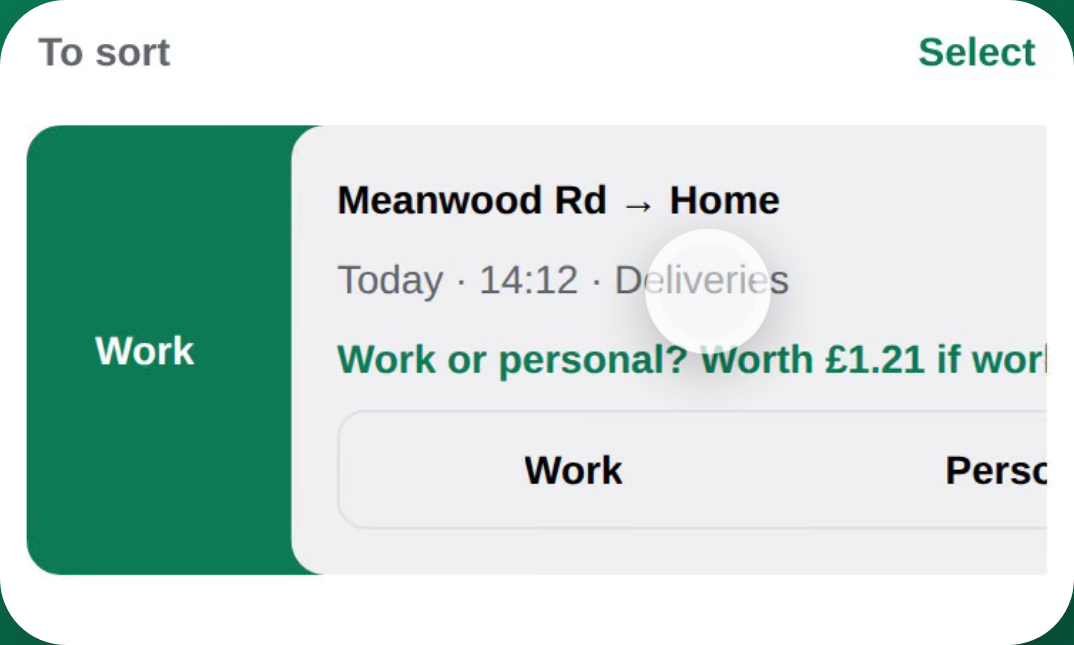
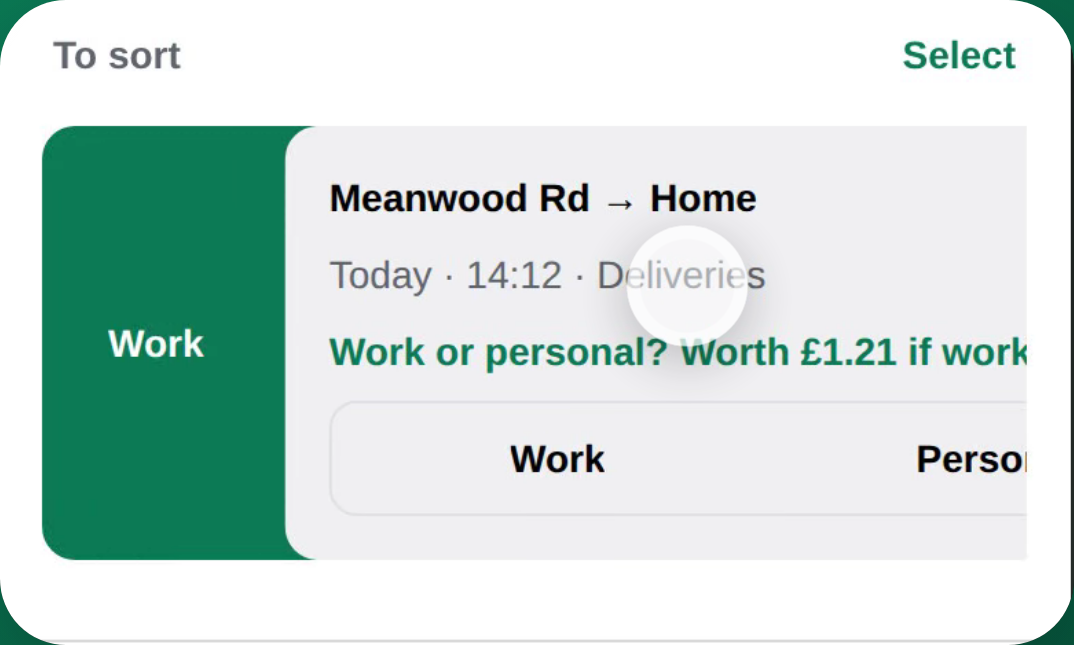
Website preview: QA fixes: panel 1 and Perks per country, zoom fits the scene, legacy zones, chip race, privacy wording
- Panel 1: the Home screenshot's 3,190.22 work miles (5,134.16 km) valued at each country's rate with the
  calculator's sum: £1,754.62, $2,424.57 (IRS), $3,739.89 (CRA), $4,550.00 (ATO, capped). Tested.
- Perks: 10¢ off a gallon of gas for the US; 10¢ / 10c off a litre for Canada / Australia.
- Zoom on phones: the app's screen fills the scene's width (about 90-92% of the viewport), measured from the
  untransformed rect, so the drive card shows whole at 320-390.
- /api/scene and intro-gate.js: legacy zone aliases (America/Indianapolis, Louisville, Fort_Wayne, Knox_IN,
  US/*, Navajo, Canada/*, Coral_Harbour, Australia/*, GB, GB-Eire); lists kept in step by a test.
- Scenery chips: a late /api/scene answer never overrides a chip the visitor picked.
- privacy.html: no 'track' in the website section.

Claude-Session: https://claude.ai/code/session_01HV35bfD7NzTSNvA32BVxeb

diff --git a/website/assets/site.js b/website/assets/site.js
@@ -667,9 +667,13 @@
     function measure() {
       var view = root.querySelector('.scene-view');
       var scr = root.querySelector('.screen');
-      // layout sizes (transforms don't change them), so measuring mid-zoom is fine
+      // the screen's box in the scene, untransformed (the zoom is lifted for the measurement, then put back)
+      var was = rig.style.transform;
+      rig.style.transform = '';
+      var vr = view.getBoundingClientRect(), sr = scr.getBoundingClientRect();
+      rig.style.transform = was;
       geo = { W: view.clientWidth, H: view.clientHeight, VW: document.documentElement.clientWidth,
-        sx: phoneEl.offsetLeft + scr.offsetLeft, sy: phoneEl.offsetTop + scr.offsetTop, sw: scr.offsetWidth, sh: scr.offsetHeight };
+        sx: sr.left - vr.left - view.clientLeft, sy: sr.top - vr.top - view.clientTop, sw: sr.width, sh: sr.height };
     }
     window.addEventListener('resize', function () { geo = null; });
     function zoomAt(t) {
@@ -711,10 +715,10 @@
       }
       if (!geo) measure();
       var g = geo;
-      // Phones: the app's screen fills about 95% of the viewport's width (the bezel and mount crop off the
-      // scene's edges), so its text reads at about real iPhone size. Wider: the screen comes up to about
+      // Phones: the app's screen fills the scene's width (about 90-92% of the viewport; the bezel and mount crop off
+      // the scene's edges), so its text reads at about real iPhone size. Wider: the screen comes up to about
       // real size (390 CSS px wide, or 90% of the scene), its text readable too.
-      var S = g.VW <= 600 ? 0.95 * g.VW / g.sw : Math.min(0.9 * g.W, 390) / g.sw;
+      var S = g.VW <= 600 ? Math.min(0.95 * g.VW, g.W) / g.sw : Math.min(0.9 * g.W, 390) / g.sw; // never wider than the scene, so the whole card shows
       S = clamp(S, 1.2, 6);
       var fx = g.sx + g.sw / 2, fy = g.sy + g.sh * focusAt(t);
       var tx = g.W / 2 - fx * S;
@@ -1014,9 +1018,11 @@
       if (picker) {
         picker.hidden = false;
         mark('standard');
-        picker.addEventListener('change', function (e) { if (e.target.checked) world.set(e.target.value); });
+        picker.addEventListener('change', function (e) { if (e.target.checked) { picked = true; world.set(e.target.value); } });
       }
-      SCENES.pick(function (id) { if (id !== 'standard') world.set(id); mark(id); });
+      // a late answer from /api/scene never overrides a chip the visitor has already picked
+      var picked = false;
+      SCENES.pick(function (id) { if (picked) return; if (id !== 'standard') world.set(id); mark(id); });
     }
 
     // the HTML poster is the clip's first frame (driving); Reduce Motion swaps in the saved state
@@ -1088,8 +1094,10 @@
   };
   // WEEKS (48) is set with the intro's example, above.
   /** What a year of `perWeek` work miles (or km) is worth: each band at its rate, anything past the last band at nothing. */
-  function yearWorth(r, perWeek) {
-    var left = perWeek * WEEKS, total = 0;
+  function yearWorth(r, perWeek) { return worthOf(r, perWeek * WEEKS); }
+  /** What `dist` work miles (or km) are worth at a country's rate: each band at its rate, past the last band nothing. */
+  function worthOf(r, dist) {
+    var left = dist, total = 0;
     for (var i = 0; i < r.tiers.length && left > 0; i++) {
       var band = Math.min(left, r.tiers[i][0]);
       total += band * r.tiers[i][1];
@@ -1106,6 +1114,9 @@
     return c === 'GB' ? 'UK' : RATES[c] ? c : 'UK';
   })();
 
+  // Panel 1's example: the Home screenshot's 3,190.22 work miles (£1,754.62 at HMRC's 55p), the same distance in km
+  // for Canada and Australia, valued at each country's rate with the calculator's sum (so no new claim)
+  var HOME_EXAMPLE = { mi: 3190.22, km: 5134.16 };
   // The calculator's starting point (100 miles or 160 km a week); the hero's example year is the same sum, so they always agree.
   function defaultWeek(r) { return EXAMPLE_WEEK[r.unit]; }
 
@@ -1540,6 +1551,27 @@
         el.setAttribute('data-prefix', sym);
         el.textContent = sym + '0';
       });
+      var homeWorth = document.querySelector('[data-home-worth]'), homeNote = document.querySelector('[data-home-note]');
+      if (homeWorth) {
+        var hw = Math.round(worthOf(r, HOME_EXAMPLE[r.unit]) * 100) / 100;
+        homeWorth.setAttribute('data-count', hw.toFixed(2));
+        homeWorth.setAttribute('data-prefix', COUNTRY === 'UK' ? '£' : '$');
+        homeWorth.textContent = fmtStat(homeWorth)(hw);
+      }
+      if (homeNote) homeNote.textContent = {
+        UK: 'Example: 3,190.2 work miles this tax year, shown on Home',
+        US: "Example: 3,190.2 work miles this year, at the IRS's rate",
+        CA: "Example: 5,134.2 work km this year, at the CRA's allowance rate",
+        AU: "Example: 5,134.2 work km this year, at the ATO's rate"
+      }[COUNTRY];
+      // Perks' demo offer: 10p off a litre (UK), 10¢ off a gallon (US), 10¢ (Canada) or 10c (Australia) off a litre
+      var perkStat = document.querySelector('[data-perk-stat]'), perkNote = document.querySelector('[data-perk-note]');
+      if (perkStat) {
+        var perkSuf = { UK: 'p off', US: '¢ off', CA: '¢ off', AU: 'c off' }[COUNTRY];
+        perkStat.setAttribute('data-suffix', perkSuf);
+        perkStat.textContent = '10' + perkSuf;
+      }
+      if (perkNote && COUNTRY === 'US') perkNote.textContent = 'a gallon of gas: a demo offer while Perks is in testing';
       var pdfTotal = document.querySelector('.pdf-total b'), pdfHead = document.querySelector('.pdf-head');
       if (pdfTotal) pdfTotal.textContent = money(r, yearWorth(r, defaultWeek(r)));
       if (pdfHead) pdfHead.textContent = 'Mileage log ' + { UK: '2026/27', US: '2026', CA: '2026', AU: '2026–27' }[COUNTRY];

diff --git a/website/privacy.html b/website/privacy.html
@@ -126,8 +126,8 @@
 
     <h2 id="website">8. This website and email</h2>
     <ul>
-      <li><strong>No cookies, analytics or trackers.</strong> This site has no cookies, no third-party fonts and no embedded content. Its one small script, our own, animates the pictures and sends the waitlist form; it doesn't track you. The one exception is the bot check below, which loads only on a sign-up form.</li>
-      <li><strong>Bot check.</strong> Once you've typed your email into a sign-up form, Cloudflare Turnstile checks the form for bots (usually without asking you anything). It runs in your browser and sends Cloudflare information about your browser and device to do that check, not to track you. See <a href="https://www.cloudflare.com/turnstile-privacy-policy/">Cloudflare's Turnstile privacy addendum</a>.</li>
+      <li><strong>No cookies, no analytics and no ad trackers.</strong> This site has no cookies, no third-party fonts and no embedded content. Its one small script, our own, animates the pictures and sends the waitlist form; it doesn't follow you around the web. The one exception is the bot check below, which loads only on a sign-up form.</li>
+      <li><strong>Bot check.</strong> Once you've typed your email into a sign-up form, Cloudflare Turnstile checks the form for bots (usually without asking you anything). It runs in your browser and sends Cloudflare information about your browser and device only to do that check, not to follow you around the web. See <a href="https://www.cloudflare.com/turnstile-privacy-policy/">Cloudflare's Turnstile privacy addendum</a>.</li>
       <li><strong>Hosting.</strong> The site is hosted on Cloudflare Pages. Like any web host, Cloudflare processes your IP address and browser details to deliver pages and protect the site from attack. We don't use these to identify you. See <a href="https://www.cloudflare.com/privacypolicy/">Cloudflare's privacy policy</a>.</li>
       <li><strong>Local scenery.</strong> To make the picture of the road look like where you are, the site asks Cloudflare for your rough area (country and region, and sometimes the nearest city) from your IP address while the page loads, and uses it to pick a picture. It isn't saved, logged or sent anywhere else, and we never see your exact location. Your browser's time zone is used the same way. Visitors from the EU, or whose area we can't tell, see the standard scene. Prefer the standard scene? <a href="/?scene=standard">Show the standard scene</a>.</li>
       <li><strong>Email.</strong> Mail to our @milesprout.app addresses is forwarded by Cloudflare Email Routing to our inbox. We use what you send only to reply and to help you, and we delete support emails when they're no longer needed (normally within two years).</li>

diff --git a/website/index.html b/website/index.html
@@ -19,9 +19,9 @@
 <link rel="apple-touch-icon" href="/apple-touch-icon.png">
 <link rel="preload" href="/assets/img/screens/home.webp?v=14b25716" as="image" type="image/webp">
 <link rel="stylesheet" href="/assets/site.css?v=6f393e6a">
-<script src="/assets/intro-gate.js?v=5d9700dc"></script>
+<script src="/assets/intro-gate.js?v=0b876a06"></script>
 <script src="/assets/season.js?v=958db9cd" defer></script>
-<script src="/assets/site.js?v=de1f396d" defer></script>
+<script src="/assets/site.js?v=3fe7fa57" defer></script>
 <noscript><style>
   /* Without JavaScript: every feature is listed, the deck is a still picture. */
   .feat { opacity: 1 !important; visibility: visible !important; transform: none !important; grid-area: auto !important; }
@@ -171,7 +171,7 @@
             <span class="mint-badge feat-badge"><svg class="b-icon" viewBox="0 0 16 16" aria-hidden="true" focusable="false"><path d="M3 8.5l3 3 7-7" fill="none" stroke="currentColor" stroke-width="2.4" stroke-linecap="round" stroke-linejoin="round"/></svg>Free</span>
             <h3 id="f-home">Your shift at a glance</h3>
             <div class="feat-top">
-              <p class="feat-stat"><b data-count="1754.62" data-prefix="£" data-dec="2">£1,754.62</b><span>Example: found this tax year, shown on Home</span></p>
+              <p class="feat-stat"><b data-count="1754.62" data-prefix="£" data-dec="2" data-home-worth>£1,754.62</b><span data-home-note>Example: 3,190.2 work miles this tax year, shown on Home</span></p>
               
             </div>
             <ul class="feat-tiles">
@@ -266,7 +266,7 @@
             <span class="mint-badge feat-badge"><svg class="b-icon" viewBox="0 0 16 16" aria-hidden="true" focusable="false"><g fill="none" stroke="currentColor" stroke-width="1.6" stroke-linejoin="round"><rect x="2" y="6" width="12" height="3" rx="1"/><path d="M3 9v5h10V9M8 6v8M8 6C6.5 3 3.5 3.5 4.5 5.5 5 6 8 6 8 6zM8 6c1.5-3 4.5-2.5 3.5-.5C11 6 8 6 8 6z"/></g></svg>Perks</span>
             <h3 id="f-perks">Deals for the places you stop</h3>
             <div class="feat-top">
-              <p class="feat-stat"><b data-count="10" data-suffix="p off">10p off</b><span>a litre of fuel: a demo offer while Perks is in testing</span></p>
+              <p class="feat-stat"><b data-count="10" data-suffix="p off" data-perk-stat>10p off</b><span data-perk-note>a litre of fuel: a demo offer while Perks is in testing</span></p>
               
             </div>
             <ul class="feat-tiles">

diff --git a/website/assets/intro-gate.js b/website/assets/intro-gate.js
@@ -8,15 +8,15 @@
      Decided here, before the page paints, and put on <html data-cc>, so the hero's money line shows the
      right country's text from the first frame (index.html carries all four; site.css shows one). No location
      is asked for. season.js and site.js use window.MSCountry. */
-  var CA_ZONES = /^America\/(Toronto|Montreal|Vancouver|Edmonton|Winnipeg|Halifax|St_Johns|Regina|Moncton|Glace_Bay|Goose_Bay|Whitehorse|Dawson|Dawson_Creek|Fort_Nelson|Creston|Iqaluit|Rankin_Inlet|Resolute|Cambridge_Bay|Inuvik|Yellowknife|Swift_Current|Atikokan|Blanc-Sablon|Nipigon|Thunder_Bay|Rainy_River|Pangnirtung)$/;
-  var US_ZONES = /^(America\/(New_York|Chicago|Denver|Los_Angeles|Phoenix|Anchorage|Adak|Boise|Detroit|Juneau|Sitka|Metlakatla|Nome|Yakutat|Menominee|Indiana\/.+|Kentucky\/.+|North_Dakota\/.+)|Pacific\/Honolulu|US\/.+)$/;
+  var CA_ZONES = /^America\/(Toronto|Montreal|Vancouver|Edmonton|Winnipeg|Halifax|St_Johns|Regina|Moncton|Glace_Bay|Goose_Bay|Whitehorse|Dawson|Dawson_Creek|Fort_Nelson|Creston|Iqaluit|Rankin_Inlet|Resolute|Cambridge_Bay|Inuvik|Yellowknife|Swift_Current|Atikokan|Blanc-Sablon|Nipigon|Thunder_Bay|Rainy_River|Pangnirtung|Coral_Harbour)$|^Canada\//;
+  var US_ZONES = /^(America\/(New_York|Chicago|Denver|Los_Angeles|Phoenix|Anchorage|Adak|Boise|Detroit|Juneau|Sitka|Metlakatla|Nome|Yakutat|Menominee|Indianapolis|Louisville|Fort_Wayne|Knox_IN|Shiprock|Atka|Indiana\/.+|Kentucky\/.+|North_Dakota\/.+)|Pacific\/Honolulu|US\/.+|Navajo)$/;
 
   /** The country a time zone belongs to, of the four: 'GB', 'US', 'CA', 'AU', or null. */
   function zoneCountry(tz) {
     if (/^Australia\//.test(tz)) return 'AU';
     if (CA_ZONES.test(tz)) return 'CA';
     if (US_ZONES.test(tz)) return 'US';
-    if (tz === 'Europe/London' || tz === 'Europe/Belfast') return 'GB';
+    if (/^(Europe\/(London|Belfast)|GB|GB-Eire)$/.test(tz)) return 'GB';
     return null;
   }
   function zone() {

diff --git a/functions/api/scene.js b/functions/api/scene.js
@@ -16,8 +16,8 @@
 const COUNTRIES = new Set(['GB', 'US', 'CA', 'AU']);
 
 // Browser time zone -> country, for the cross-check (only the four countries matter).
-const CA_ZONES = /^America\/(Toronto|Montreal|Vancouver|Edmonton|Winnipeg|Halifax|St_Johns|Regina|Moncton|Glace_Bay|Goose_Bay|Whitehorse|Dawson|Dawson_Creek|Fort_Nelson|Creston|Iqaluit|Rankin_Inlet|Resolute|Cambridge_Bay|Inuvik|Yellowknife|Swift_Current|Atikokan|Blanc-Sablon|Nipigon|Thunder_Bay|Rainy_River|Pangnirtung)$|^Canada\//;
-const US_ZONES = /^(America\/(New_York|Chicago|Denver|Los_Angeles|Phoenix|Anchorage|Adak|Boise|Detroit|Juneau|Sitka|Metlakatla|Nome|Yakutat|Menominee|Indiana\/.+|Kentucky\/.+|North_Dakota\/.+)|Pacific\/Honolulu|US\/.+)$/;
+const CA_ZONES = /^America\/(Toronto|Montreal|Vancouver|Edmonton|Winnipeg|Halifax|St_Johns|Regina|Moncton|Glace_Bay|Goose_Bay|Whitehorse|Dawson|Dawson_Creek|Fort_Nelson|Creston|Iqaluit|Rankin_Inlet|Resolute|Cambridge_Bay|Inuvik|Yellowknife|Swift_Current|Atikokan|Blanc-Sablon|Nipigon|Thunder_Bay|Rainy_River|Pangnirtung|Coral_Harbour)$|^Canada\//;
+const US_ZONES = /^(America\/(New_York|Chicago|Denver|Los_Angeles|Phoenix|Anchorage|Adak|Boise|Detroit|Juneau|Sitka|Metlakatla|Nome|Yakutat|Menominee|Indianapolis|Louisville|Fort_Wayne|Knox_IN|Shiprock|Atka|Indiana\/.+|Kentucky\/.+|North_Dakota\/.+)|Pacific\/Honolulu|US\/.+|Navajo)$/;
 const GB_ZONES = /^(Europe\/(London|Belfast)|GB|GB-Eire)$/;
 
 export function countryOfZone(tz) {

diff --git a/website/testers.html b/website/testers.html
@@ -18,7 +18,7 @@
 <link rel="icon" href="/favicon-32.png" sizes="32x32" type="image/png">
 <link rel="apple-touch-icon" href="/apple-touch-icon.png">
 <link rel="stylesheet" href="/assets/site.css?v=6f393e6a">
-<script src="/assets/site.js?v=de1f396d" defer></script>
+<script src="/assets/site.js?v=3fe7fa57" defer></script>
 </head>
 <body>
 <a class="skip" href="#main">Skip to content</a>

diff --git a/website/waitlist.html b/website/waitlist.html
@@ -11,7 +11,7 @@
 <link rel="icon" href="/favicon-32.png" sizes="32x32" type="image/png">
 <link rel="apple-touch-icon" href="/apple-touch-icon.png">
 <link rel="stylesheet" href="/assets/site.css?v=6f393e6a">
-<script src="/assets/site.js?v=de1f396d" defer></script>
+<script src="/assets/site.js?v=3fe7fa57" defer></script>
 </head>
 <body>
 <a class="skip" href="#main">Skip to content</a>
